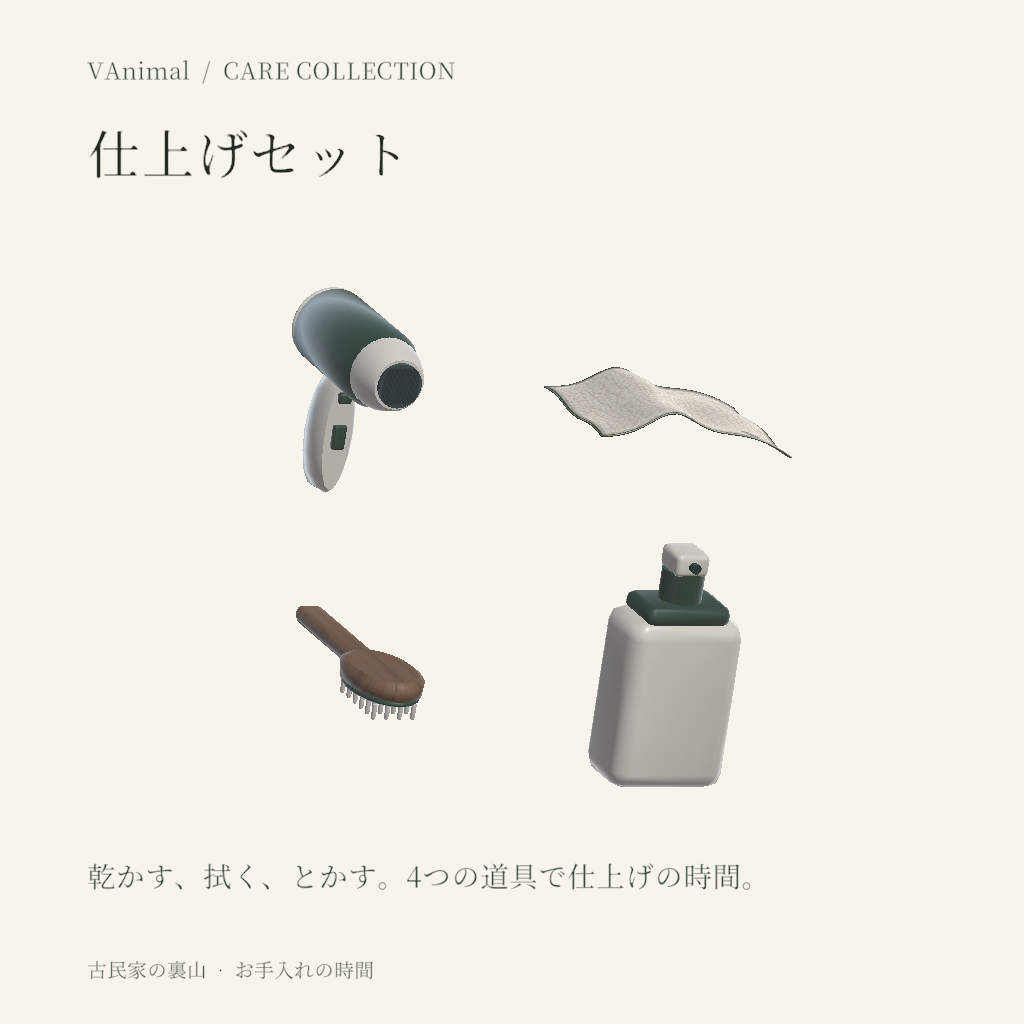
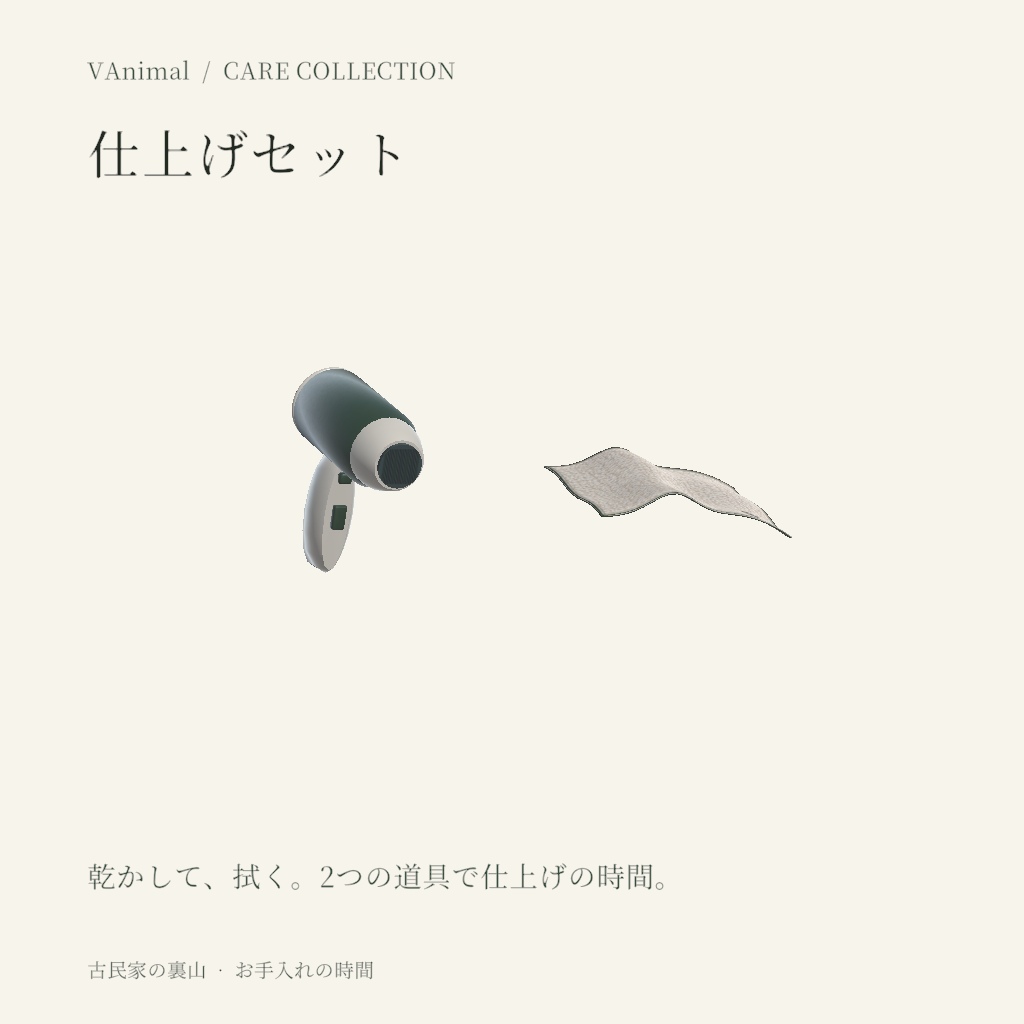
[asset] IMP-DOG-047: 9 品構成のリスティング画像 5 枚とボードの写真を撮り直し (WashPremium/41・45)

diff --git a/docs/development/issues/issue_summary.md b/docs/development/issues/issue_summary.md
@@ -69,7 +69,7 @@
 | [IMP-DOG-038](IMP-DOG-038-leash-wait-at-bridge-corner.md) | Medium | 上流の橋の入口の急な角 (ノード 240→241、約 106°) で、リードの犬が角の先で Wait に入り、飼い主が角を回り込む間にリードの距離が Return の閾値 3.75 m を越えて手元へ走って戻る | review | Play (A0-27): 上流の橋の角でリードの犬が走って戻らず、少し歩み寄って待つか。下流の橋の角 (316→317) と逆回りも見る。閾値 (75°・0.4 m) は幾何から置いた値で未調整 |
 | [IMP-DOG-041](IMP-DOG-041-hand-feed-treats.md) | Medium | おやつを落とす操作を必須にせず、手に持って口元へ差し出すと犬が直接食べる | review | PCVRで6犬種・左右の手・掴み直しを確認し、2人で非Ownerの手渡しと回収を確認する |
 | [IMP-DOG-046](IMP-DOG-046-wash-tools-by-category.md) | Medium | 追加洗浄道具を種類ごとに選択し、泡・水・タオルを同時に出せるようにする | review | シーンへ適用済み (2026-10-11、44 707 PASS、Wash/12 は範囲外の 1 件だけ)。ユーザーの PCVR で 3 枠同時・持ったまま台の切替・基本に戻す・ドライヤーの風を見る。2 人で同じ選択。リスティング画像 (41・45) とハーネス WashPremium.cs の旧名の修正は未着手 |
-| [IMP-DOG-047](IMP-DOG-047-wash-item-review-changes.md) | Medium | 追加洗浄アイテムを既存6品＋新規3品の9品構成へ整理し、ドライヤーの風を改善する | review | シーンへ適用済み (2026-10-11、44 707 PASS、Wash/12 は範囲外の 1 件だけ)。ユーザーの PCVR で 3 枠同時・持ったまま台の切替・基本に戻す・ドライヤーの風を見る。2 人で同じ選択。リスティング画像 (41・45) とハーネス WashPremium.cs の旧名の修正は未着手 |
+| [IMP-DOG-047](IMP-DOG-047-wash-item-review-changes.md) | Medium | 追加洗浄アイテムを既存6品＋新規3品の9品構成へ整理し、ドライヤーの風を改善する | review | シーンへ適用済み (2026-10-11、44 707 PASS、Wash/12 は範囲外の 1 件だけ)。ユーザーの PCVR で 3 枠同時・持ったまま台の切替・基本に戻す・ドライヤーの風を見る。2 人で同じ選択。ハーネス WashPremium.cs の旧名の修正は未着手 |
 | [IMP-ENV-001](IMP-ENV-001-hillside-polish.md) | Medium | 道・木陰・見晴らし・休憩場所を磨く。10-04 景観改善に着手、詳細な負荷調査は改善後の VER-ENV-002 | review | 第2段階の川沿いと休憩場所を比較HTMLで確認。小物はIMP-ENV-012で追加。実機の視認性・端の見え方・負荷は未確認 |
 | [IMP-ENV-004](IMP-ENV-004-river-loop-course.md) | Medium | 既存の登り道を保全し、奥広場・川岸・小橋を経て門へ戻る周回コースを軽量に制作する。約2.41kmの地形・436点の周回経路・手元の6目的地を別シーンへ実装 | review | 実装済み・確認待ち。残り: 犬連れ実歩行の所要時間の記録と最終距離の DES-ENV-002 への記録、複数人の分散・途中参加・Owner 交代、Quest 3/iPhone 15 Pro・16 人の性能の実機検証、現行と変更後の同条件比較。PCVR 1 人の周回 (A135〜A138) は 10-02 ユーザー総合判断で確認済み |
 | [IMP-ENV-005](IMP-ENV-005-auto-night-mode.md) | Medium | ナイトモードに時間経過で暗くなるグローバルのオートと、個人で調整するローカルのマニュアルを追加する | review | ユーザーの Play / PCVR で、オートの暗くなり方 (昼 10 分 + 夕暮れ 30 分、暗さ 0.8) と道・犬・メニューの見やすさ、設定画面の [オート] [マニュアル] とスライダーの挙動、再入室での設定の復元、11 言語 (client 字形) でボタン文字が枠に収まるかを確認 (A0-11〜A0-13)。2 人で、同じ暗さになること・途中参加の合流・最初の人が抜けても巻き戻らないことを確認 (B55)。Quest 単体・iOS の見え方は VER-WLD-001 (D20・E18) |

diff --git a/docs/development/issues/IMP-DOG-047-wash-item-review-changes.md b/docs/development/issues/IMP-DOG-047-wash-item-review-changes.md
@@ -5,7 +5,7 @@ system: DOG
 status: review
 priority: Medium
 summary: 追加洗浄アイテムを既存6品＋新規3品の9品構成へ整理し、ドライヤーの風を改善する
-next: シーンへ適用済み (2026-10-11、44 707 PASS、Wash/12 は範囲外の 1 件だけ)。ユーザーの PCVR で 3 枠同時・持ったまま台の切替・基本に戻す・ドライヤーの風を見る。2 人で同じ選択。リスティング画像 (41・45) とハーネス WashPremium.cs の旧名の修正は未着手
+next: シーンへ適用済み (2026-10-11、44 707 PASS、Wash/12 は範囲外の 1 件だけ)。ユーザーの PCVR で 3 枠同時・持ったまま台の切替・基本に戻す・ドライヤーの風を見る。2 人で同じ選択。ハーネス WashPremium.cs の旧名の修正は未着手
 updated: 2026-10-11
 ---
 
@@ -97,3 +97,5 @@ JІИごずっどひよ今件使停再各合同密将將尾常干成才抹持收
 コンパイル 0 (C# / U#) → `WashPremium/43` (CareFont 585 文字・不足 0、`77f7c3e`) → `48` 1 回目は 44 で 20 FAIL (トレーの重なり。当たり判定の箱が洗い場の回転で膨らんでいた) → 保存せず開き直し、配置を直して → `48` (各洗い場で 11 品を削除、提供 6 品 = 泡銃・肉球ミトン・じょうろ・ドライヤー・柄タオル・檜、NetworkIDs 336 → 336、型なしの削除 0) → `44` **707 PASS / FAIL 0** → 保存 → `Wash/12` **1 FAIL** (作業前 11。残りは範囲外の主洗い場の台の接地) → 保存後の `.unity` に `gameObject: {fileID: 0}` 0 件。シーンの差分は有料道具まわりと、中央支柱の位置の誤差の再計算 1 件だけ。
 
 残り: ユーザーの PCVR (3 枠を同時に出す、道具を持ったまま台を替える、「基本に戻す」で持っている枠が残る、ドライヤーの風の筋)、Desktop、2 人で同じ選択が見えること。リスティング画像 (41・45) は未撮影。`Testing/KH_CourseWalkHarnessEditor.WashPremium.cs` は `selectedTool` などの旧名を読むので、実行すると失敗する (ハーネスは未修正・未実行)。訳は AI 作成・校正なし。
+
+2026-10-11 (統括): リスティング画像を撮り直した (`WashPremium/41` → `artifacts/wash-listings/2026-10-11/01-foam` 〜 `05-complete.png`、1024 角・価格なし。ボードの写真 `Data/WashPremium/Photos/Set0〜4.png` も更新)。`45` の証拠画像 (`evidence/board.png`・`station.png`) で、トレーに 3 枠が並ぶこと、ボードの 5 タブと泡の 2 品を目視で確かめた。どちらもシーンは変えていない。
